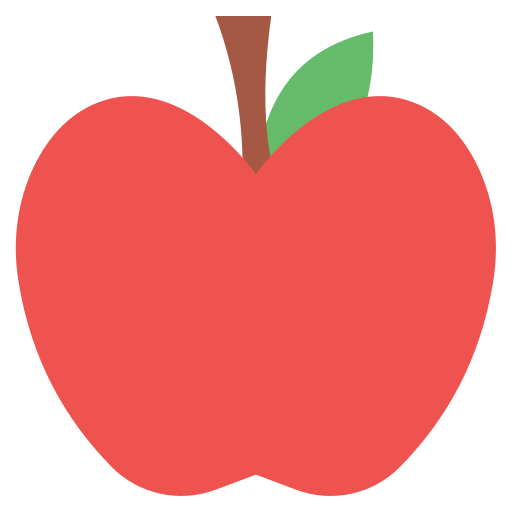
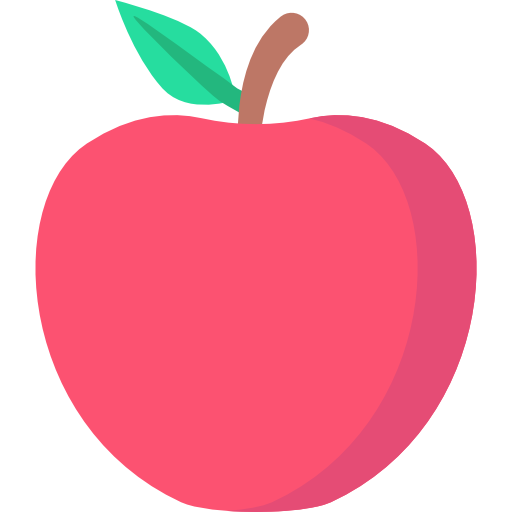
feat: 테마 기능 추가

diff --git a/apple-game-front/src/app/components/game/game.component.html b/apple-game-front/src/app/components/game/game.component.html
@@ -1,27 +1,30 @@
-<div class="flex flex-col h-screen w-screen justify-center">
-  <div class="flex w-full h-16 justify-between items-center bg-amber-100">
+<div class="flex flex-col h-screen w-screen justify-center {{this.theme.main_color}}">
+  <div class="flex w-full h-16 justify-between items-center  {{this.theme.background_color}}">
     <div class="flex flex-row items-center p-5 gap-2">
-      <img src="assets/images/logo.png" class="mx-auto w-8 h-8">
-      <span class="text-xl text-red-500">사과게임</span>
+      <img src="{{this.theme.logo}}" class="mx-auto w-8 h-8">
+      <span class="text-xl {{this.theme.text_color}}">{{this.theme.name}}게임</span>
     </div>
     <div class="flex flex-row items-center gap-6 pr-10 text-xl">
-      <div class="felx justify-center justify-items-center text-xl w-16 text-slate-600" *ngIf="bestScore">
+      <div class="felx justify-center justify-items-center text-xl w-16 {{this.theme.info_text_color}}" *ngIf="bestScore">
         <img src="assets/images/score.png" class="w-8 h-8 inline-block"/>: {{bestScore}}
       </div>
-      <span class="text-xl text-slate-600">점수: {{ score$ | async }}</span>
-      <span class="text-xl text-slate-600" *ngIf="gameStarted">남은 시간: {{ timeRemaining }}초</span>
+      <span class="text-xl {{this.theme.info_text_color}}">점수: {{ score$ | async }}</span>
+      <span class="text-xl {{this.theme.info_text_color}}" *ngIf="gameStarted">남은 시간: {{ timeRemaining }}초</span>
       <button type="button" (click)="linkToRangkingPage()" class="flex flex-row bg-amber-200 text-slate-600 mx-auto items-center h-12 px-2 gap-2 shadow-md rounded-md text-md">
         <img src="assets/images/crown.png" class="w-10 h-10"/>
         랭킹
       </button>
-      <button (click)="linkToMemuPage()" class="flex bg-red-400 items-center text-white py-1 px-2 h-12 shadow-md rounded-md text-md">
+      <button (click)="linkToMemuPage()" class="flex {{this.theme.button_color}} items-center py-1 px-2 h-12 shadow-md rounded-md text-md">
         <span class="">{{username}}<span> 님</span></span>
+      </button>
+      <button (click)="changeTheme()" class="flex {{this.theme.button_color}} items-center py-1 px-2 h-12 shadow-md rounded-md text-md">
+        <span class="">테마변경</span>
       </button>
     </div>
   </div>
-  <div class="w-5/6 h-5/6 m-auto bg-amber-100 ">
+  <div class="w-5/6 h-5/6 m-auto {{this.theme.background_color}}">
     <div *ngIf="!gameStarted" class="flex flex-col justify-center items-center w-full h-full">
-      <button (click)="startGame()"  class="flex bg-red-400 items-center text-white py-1 px-5 h-16 shadow-md rounded-md text-2xl">
+      <button (click)="startGame()"  class="flex {{this.theme.button_color}}  items-center py-1 px-5 h-16 shadow-md rounded-md text-2xl">
         게임 시작
       </button>
       <div *ngIf="finalScore !== null" class="text-xl my-4">

diff --git a/apple-game-front/src/app/components/menu/menu.component.html b/apple-game-front/src/app/components/menu/menu.component.html
@@ -1,11 +1,11 @@
-<div class="flex flex-col h-screen w-screen justify-center">
-  <div class="flex w-full h-16 justify-between items-center bg-amber-100">
+<div class="flex flex-col h-screen w-screen justify-center {{this.theme.main_color}}">
+  <div class="flex w-full h-16 justify-between items-center {{this.theme.background_color}}">
     <div class="flex flex-row items-center p-5 gap-2">
-      <img src="assets/images/logo.png" class="mx-auto w-8 h-8">
-      <span class="text-xl text-red-500">사과게임</span>
+      <img src="{{this.theme.logo}}" class="mx-auto w-8 h-8">
+      <span class="text-xl {{this.theme.text_color}}">{{this.theme.name}}게임</span>
     </div>
     <button type="button" (click)="(linkToGmaePage())" class="flex flex-row bg-amber-200 text-slate-600 mr-10 items-center h-12 px-2 gap-2 shadow-md rounded-md text-xl">
-      <img src="assets/images/apple.png" class="w-8 h-8"/>
+      <img src="{{this.theme.image}}" class="w-8 h-8"/>
       게임
     </button>
   </div>
@@ -15,12 +15,12 @@
     <br>
     <span>이름을 변경하고 싶다면 <br> 이름을 작성하고 변경 버튼을 눌러주세요!</span>
     <div>
-      <input [(ngModel)]="new_name" type="text"  class="w-32 mx-3 my-8 z-50 border-2 border-red-400 rounded-lg focus:border-rose-600 focus:ring-0">
-      <button type="button" (click)="changeUserName()" class="bg-red-400 text-white mx-auto w-16 py-3 shadow-md rounded-md text-md disabled:opacity-40">
+      <input [(ngModel)]="new_name" type="text"  class="{{theme.input_color}} w-32 mx-3 my-8 z-50 border-2 rounded-lg  focus:ring-0">
+      <button type="button" (click)="changeUserName()" class="{{this.theme.button_color}} mx-auto w-16 py-3 shadow-md rounded-md text-md disabled:opacity-40">
         변경
       </button>
     </div>
-    <button type="button" (click)="userOut()" class="bg-amber-200 text-slate-600 mx-auto w-32 py-4 shadow-md rounded-md text-md disabled:opacity-40 z-50">
+    <button type="button" (click)="userOut()" class="{{this.theme.background_color}} {{this.theme.info_text_color}} mx-auto w-32 py-4 shadow-md rounded-md text-md disabled:opacity-40 z-50">
       로그아웃
     </button>
   </div>

diff --git a/apple-game-front/src/app/components/ranking/ranking.component.html b/apple-game-front/src/app/components/ranking/ranking.component.html
@@ -1,15 +1,15 @@
-<div class="flex flex-col w-screen justify-center items-center gap-10 overflow-scroll">
-  <div class="flex w-full h-16 justify-between items-center bg-amber-100">
+<div class="flex flex-col w-screen justify-center items-center gap-10 overflow-scroll {{this.theme.main_color}}">
+  <div class="flex w-full h-16 justify-between items-center {{this.theme.background_color}}">
     <div class="flex flex-row items-center p-5 gap-2">
-      <img src="assets/images/logo.png" class="mx-auto w-8 h-8">
-      <span class="text-xl text-red-500">사과게임</span>
+      <img src="{{this.theme.logo}}" class="mx-auto w-8 h-8">
+      <span class="text-xl {{this.theme.text_color}}">사과게임</span>
     </div>
     <button type="button" (click)="(linkToGmaePage())" class="flex flex-row bg-amber-200 text-slate-600 mr-10 items-center h-12 px-2 gap-2 shadow-md rounded-md text-xl">
-      <img src="assets/images/apple.png" class="w-8 h-8"/>
+      <img src="{{this.theme.image}}" class="w-8 h-8"/>
       게임
     </button>
   </div>
-  <div class="flex flex-row justify-around items-center w-4/6 h-24 bg-amber-100 rounded-xl" *ngFor="let user of users let i = index">
+  <div class="flex flex-row justify-around items-center w-4/6 h-24 {{this.theme.background_color}} rounded-xl" *ngFor="let user of users let i = index">
       <ng-container *ngIf="i < 3">
         <img [src]="'assets/images/medal' + (i + 1) + '.png'" class="w-10 h-10">
       </ng-container>

diff --git a/apple-game-front/src/app/components/game/apple-game/apple-game.component.ts b/apple-game-front/src/app/components/game/apple-game/apple-game.component.ts
@@ -1,21 +1,40 @@
-import { Component, ElementRef, OnDestroy, ViewChild } from '@angular/core';
+import {
+  Component,
+  ElementRef,
+  OnDestroy,
+  OnInit,
+  ViewChild,
+} from '@angular/core';
 import { GameService } from '@app/share/service/game.service';
+import { ThemeService } from '@app/share/service/theme.service';
 import { DrawCanvas } from '@components/game/apple-game/modules/draw-canvas';
 @Component({
   selector: 'app-apple-game',
   templateUrl: './apple-game.component.html',
 })
-export class AppleGameComponent implements OnDestroy {
+export class AppleGameComponent implements OnDestroy, OnInit {
+  theme: any;
   @ViewChild('appleGame', { static: false })
   canvasRef!: ElementRef<HTMLCanvasElement>;
 
   drawCanvas!: DrawCanvas;
 
-  constructor(private gameService: GameService) {}
+  constructor(
+    private gameService: GameService,
+    private themeService: ThemeService
+  ) {}
+
+  ngOnInit(): void {
+    this.theme = this.themeService.getTheme();
+  }
 
   ngAfterViewInit(): void {
     const canvas = this.canvasRef.nativeElement;
-    this.drawCanvas = new DrawCanvas(canvas, this.gameService);
+    this.drawCanvas = new DrawCanvas(
+      canvas,
+      this.gameService,
+      this.theme.image
+    );
 
     this.drawCanvas.init();
     this.drawCanvas.update();

diff --git a/apple-game-front/src/app/share/service/theme.service.ts b/apple-game-front/src/app/share/service/theme.service.ts
@@ -3,11 +3,15 @@ import { LocalStorageService } from './local-storage.service';
 
 interface Theme {
   name: string;
+  logo: string;
   image: string;
   text_color: string;
   info_text_color: string;
   button_color: string;
+  background_color: string;
   input_color: string;
+  main_color: string;
+  gameTextColor: string;
 }
 
 @Injectable({
@@ -19,11 +23,27 @@ export class ThemeService {
   private availableThemes: Theme[] = [
     {
       name: '사과',
+      logo: 'assets/images/logo.png',
       image: 'assets/images/apple.png',
       text_color: 'text-red-500',
       info_text_color: 'text-slate-600',
       button_color: 'bg-red-400 text-white',
+      background_color: 'bg-amber-100',
+      main_color: 'bg-amber-50',
+      gameTextColor: 'white',
       input_color: 'border-red-400 focus:border-rose-600',
+    },
+    {
+      name: '포도',
+      logo: 'assets/images/logo2.png',
+      image: 'assets/images/grape.png',
+      text_color: 'text-violet-400',
+      info_text_color: 'text-violet-950',
+      button_color: 'bg-violet-400 text-violet-50',
+      background_color: 'bg-purple-200',
+      main_color: 'bg-purple-50',
+      gameTextColor: 'text-violet-950',
+      input_color: 'border-purple-400 focus-purple-600',
     },
   ];
 

diff --git a/apple-game-front/src/app/components/main/apple-drop/apple-drop.component.ts b/apple-game-front/src/app/components/main/apple-drop/apple-drop.component.ts
@@ -1,19 +1,34 @@
-import { AfterViewInit, Component, ElementRef, ViewChild } from '@angular/core';
+import {
+  AfterViewInit,
+  Component,
+  ElementRef,
+  OnInit,
+  ViewChild,
+} from '@angular/core';
 import { AppleDrop } from '@app/components/main/apple-drop/modules/apple-drop';
+import { ThemeService } from '@app/share/service/theme.service';
 
 @Component({
   selector: 'app-apple-drop',
   templateUrl: './apple-drop.component.html',
 })
-export class AppleDropComponent implements AfterViewInit {
+export class AppleDropComponent implements AfterViewInit, OnInit {
+  theme: any;
+
   @ViewChild('dropApple', { static: false })
   canvasRef!: ElementRef<HTMLCanvasElement>;
 
   drawCanvas!: AppleDrop;
 
+  constructor(private themeService: ThemeService) {}
+
+  ngOnInit(): void {
+    this.theme = this.themeService.getTheme();
+  }
+
   ngAfterViewInit(): void {
     const canvas = this.canvasRef.nativeElement;
-    this.drawCanvas = new AppleDrop(canvas);
+    this.drawCanvas = new AppleDrop(canvas, this.theme.image);
 
     this.drawCanvas.init();
     this.drawCanvas.update();

diff --git a/apple-game-front/src/app/components/game/apple-game/modules/draw-canvas.ts b/apple-game-front/src/app/components/game/apple-game/modules/draw-canvas.ts
@@ -13,8 +13,13 @@ export class DrawCanvas {
   public droppedApples: Apple[] = [];
   private gameService: GameService;
   private score: number;
+  private src: string;
 
-  constructor(canvas: HTMLCanvasElement, gameService: GameService) {
+  constructor(
+    canvas: HTMLCanvasElement,
+    gameService: GameService,
+    src: string
+  ) {
     this.canvas = canvas;
     this.ctx = canvas.getContext('2d')!;
     this.ctx.strokeStyle = 'black';
@@ -25,6 +30,7 @@ export class DrawCanvas {
     this.rect = this.canvas.parentElement!.getBoundingClientRect();
     this.gameService = gameService;
     this.score = 0;
+    this.src = src;
     this.generateApples();
   }
 
@@ -79,7 +85,7 @@ export class DrawCanvas {
           availableHeight / 2 -
           appleRadius +
           borderOffset;
-        const apple = new Apple(x, y, appleRadius);
+        const apple = new Apple(x, y, appleRadius, this.src);
         this.units.push(apple);
       }
     }

diff --git a/apple-game-front/src/app/components/ranking/ranking.component.ts b/apple-game-front/src/app/components/ranking/ranking.component.ts
@@ -1,6 +1,7 @@
 import { Component, OnInit } from '@angular/core';
 import { Router } from '@angular/router';
 import { User } from '@app/share/models/user.model';
+import { ThemeService } from '@app/share/service/theme.service';
 import { UserService } from '@app/share/service/user.service';
 
 @Component({
@@ -9,14 +10,20 @@ import { UserService } from '@app/share/service/user.service';
 })
 export class RankingComponent implements OnInit {
   users: User[] = [];
+  theme: any;
 
-  constructor(private userService: UserService, private router: Router) {}
+  constructor(
+    private userService: UserService,
+    private router: Router,
+    private themeService: ThemeService
+  ) {}
 
   linkToGmaePage(): void {
     this.router.navigate(['game']);
   }
 
   ngOnInit(): void {
+    this.theme = this.themeService.getTheme();
     this.userService.getUsers().subscribe((response) => {
       this.users = response;
     });

diff --git a/apple-game-front/src/app/components/main/main.component.html b/apple-game-front/src/app/components/main/main.component.html
@@ -1,8 +1,8 @@
 <app-apple-drop></app-apple-drop>
-<div class="flex flex-col w-screen h-screen justify-center items-center mx-auto">
+<div class="flex flex-col w-screen h-screen justify-center items-center mx-auto {{this.theme.main_color}}">
   <div class="w-full text-center">
-    <img src="assets/images/logo.png" class="mx-auto w-52 h-52">
-    <span class="text-8xl {{theme.text_color}}">사과게임</span>
+    <img src="{{this.theme.logo}}" class="mx-auto w-52 h-52">
+    <span class="text-8xl {{this.theme.text_color}}">{{this.theme.name}}게임</span>
   </div>
 
   <span class="text-5xl flex items-center justify-center pt-24">

diff --git a/apple-game-front/src/app/components/menu/menu.component.ts b/apple-game-front/src/app/components/menu/menu.component.ts
@@ -12,7 +12,7 @@ export class MenuComponent implements OnInit {
   username: string = '';
   new_name: string = '';
   best_score: number = 0;
-  theme: object = {};
+  theme: any;
 
   constructor(
     private router: Router,
@@ -50,8 +50,6 @@ export class MenuComponent implements OnInit {
       .subscribe(() => {
         const user = this.localStorageService.getLocalStorageItem('user');
         this.username = user.username;
-
-        alert('변경 완료!');
       });
   }
 }

diff --git a/apple-game-front/src/app/components/main/apple-drop/modules/apple-drop.ts b/apple-game-front/src/app/components/main/apple-drop/modules/apple-drop.ts
@@ -13,13 +13,13 @@ export class AppleDrop {
     creationFactor: 0.02,
   };
 
-  constructor(canvas: HTMLCanvasElement) {
+  constructor(canvas: HTMLCanvasElement, src: string) {
     this.units = [];
     this.canvas = canvas;
     this.context = canvas.getContext('2d')!;
     this.lastTime = new Date().getTime();
     this.image = new Image();
-    this.image.src = 'assets/images/apple.png';
+    this.image.src = src;
   }
 
   public init(): void {

diff --git a/apple-game-front/src/app/components/game/game.component.ts b/apple-game-front/src/app/components/game/game.component.ts
@@ -59,6 +59,16 @@ export class GameComponent implements OnInit {
     }
   }
 
+  changeTheme(): void {
+    const theme = this.localStorage.getLocalStorageItem('theme');
+    if (theme == 0) {
+      this.localStorage.setLocalStorageItem('theme', 1);
+    } else {
+      this.localStorage.setLocalStorageItem('theme', 0);
+    }
+    window.location.reload();
+  }
+
   linkToRangkingPage(): void {
     this.router.navigate(['ranking']);
   }
